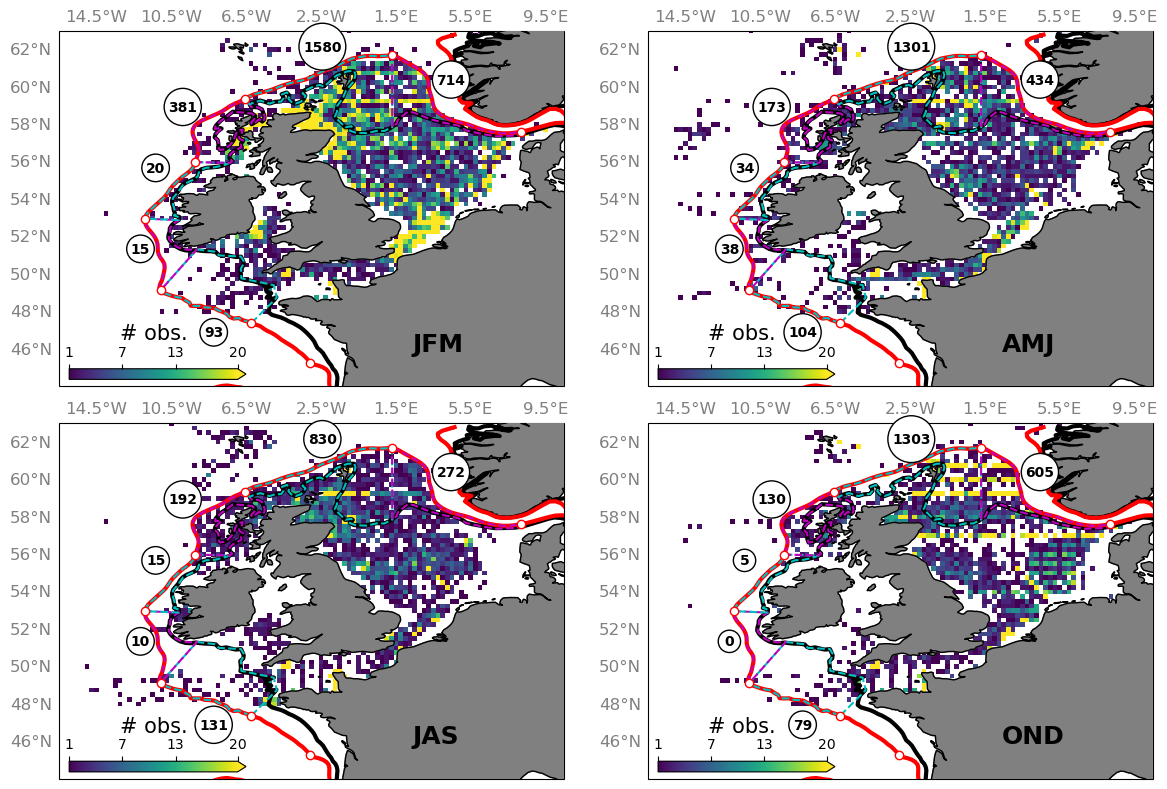
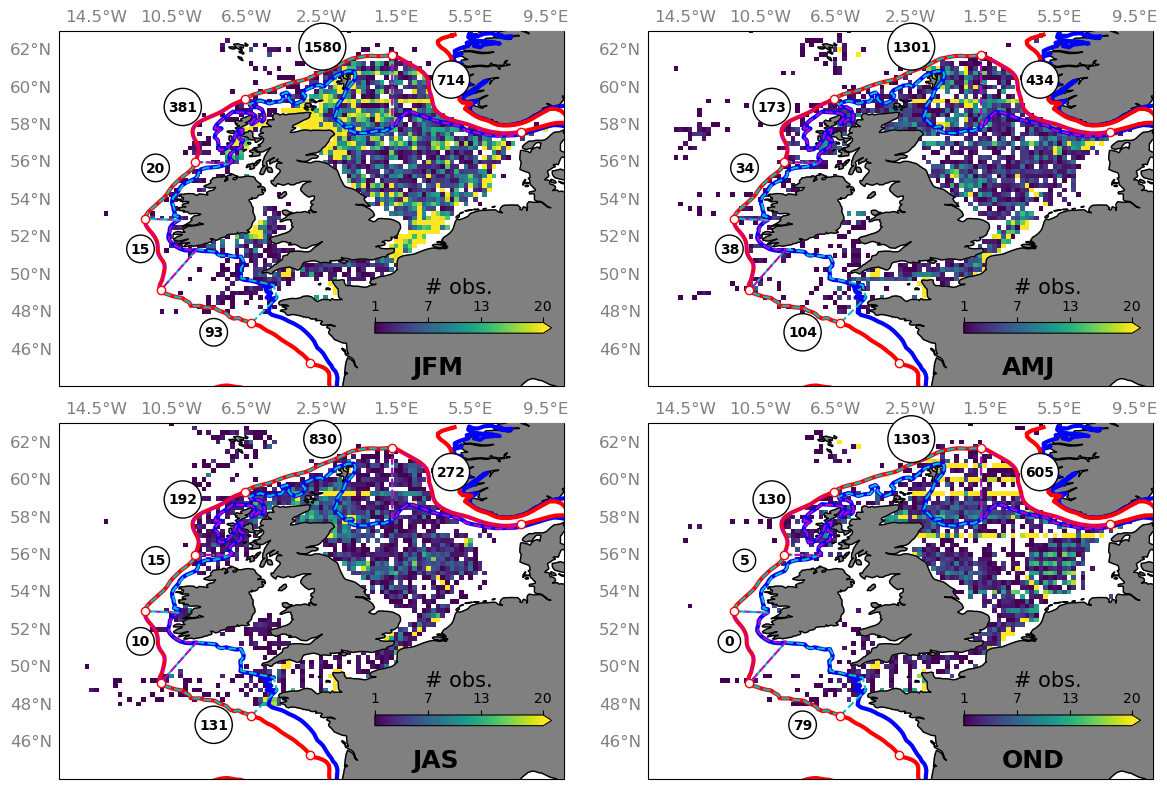
Update Figures S1 and S2

diff --git a/proc/plt_figS1.py b/proc/plt_figS1.py
@@ -1,0 +1,153 @@
+import numpy as np
+import matplotlib.pyplot as plt
+from xarray import open_dataset
+from pandas import DataFrame, read_json
+from pathlib import Path
+from glob import glob
+import cartopy.crs as ccrs
+from cmocean.cm import matter
+from cartopy.feature import LAND
+import matplotlib.ticker as mticker
+from cartopy.mpl.gridliner import LONGITUDE_FORMATTER, LATITUDE_FORMATTER
+
+
+proj = ccrs.PlateCarree()
+
+def bmap(fig, ax, bb, proj=proj, TOP_LABELS=False, xticks=None, yticks=None, dlon=2, dlat=2, land=None, coastlines=True):
+    ax.set_extent(bb, proj)
+
+    if land is not None:
+        ax.add_feature(land, zorder=8, color="gray")
+
+    if coastlines:
+        ax.coastlines(zorder=9)
+
+    if not xticks:
+        xticks = np.arange(bb[0], bb[1], dlon)
+    if not yticks:
+        yticks = np.arange(bb[2], bb[3], dlat)
+
+    gl = ax.gridlines(crs=proj, linewidth=0, color="gray", alpha=0.5, linestyle="--")
+    gl.top_labels = TOP_LABELS
+    gl.left_labels = True
+    gl.bottom_labels = False
+    gl.right_labels = False
+    gl.xlines = True
+    gl.ylines = True
+    gl.xlocator = mticker.FixedLocator(xticks)
+    gl.ylocator = mticker.FixedLocator(yticks)
+    gl.xformatter = LONGITUDE_FORMATTER
+    gl.yformatter = LATITUDE_FORMATTER
+    gl.xlabel_style = {"size": 12, "color": "gray"}
+    gl.ylabel_style = {"size": 12, "color": "gray"}  # , "rotation":45}
+
+    return ax
+
+
+def near2(x, y, x0, y0):
+    dr2 = (x - x0) ** 2 + (y - y0) ** 2
+    return int(np.nanargmin(dr2))
+
+
+# ---
+plt.close("all")
+
+xmin, xmax = -16.5, 10.5
+ymin, ymax = 44, 63
+bb = (xmin, xmax, ymin, ymax)
+ssns = ["JFM", "AMJ", "JAS", "OND"]
+head = "../data/woa23/"
+nobsmin = 1
+nobsmax = 20
+
+fJFM = head + "woa23N-winter.nc"
+fAMJ = head + "woa23N-spring.nc"
+fJAS = head + "woa23N-summer.nc"
+fOND = head + "woa23N-autumn.nc"
+
+dsJFM = open_dataset(fJFM, decode_times=False)
+fupper200m = dsJFM["depth"]<=200
+
+dsJFM = dsJFM.where(fupper200m)
+dsAMJ = open_dataset(fAMJ, decode_times=False).where(fupper200m)
+dsJAS = open_dataset(fJAS, decode_times=False).where(fupper200m)
+dsOND = open_dataset(fOND, decode_times=False).where(fupper200m)
+
+ddJFM = dsJFM["n_dd"].max("depth")
+ddAMJ = dsAMJ["n_dd"].max("depth")
+ddJAS = dsJAS["n_dd"].max("depth")
+ddOND = dsOND["n_dd"].max("depth")
+
+x0, y0 = ddJFM["lon"].values, ddJFM["lat"].values
+x, y = np.meshgrid(x0, y0)
+dxy = y0[1] - y0[0]
+x0 = np.append(x0, x0[-1] + dxy)
+y0 = np.append(y0, y0[-1] + dxy)
+
+ddJFM = ddJFM.values
+ddAMJ = ddAMJ.values
+ddJAS = ddJAS.values
+ddOND = ddOND.values
+
+# Load smoothed isobaths.
+d = np.load("isobath_100m.npz")
+xi100, yi100 = d["xi_ext"], d["yi_ext"]
+
+d = np.load("isobath_200m.npz")
+xi, yi = d["xi_ext"], d["yi_ext"]
+
+# Load Wei et al. (2024) sections.
+xseg0, yseg0 = np.loadtxt("segment_latitudes_wei_etal2024.txt", unpack=True)
+fseg = [near2(xi, yi, xseg0[i], yseg0[i]) for i in range(len(yseg0))]
+xseg, yseg = xi[fseg], yi[fseg]
+
+figsize = (12, 8)
+cmap = plt.cm.viridis
+cmap.set_extremes(bad="w", under="w")
+
+fig = plt.figure(figsize=figsize)
+ax11 = fig.add_subplot(221, projection=proj)
+ax12 = fig.add_subplot(222, projection=proj, sharex=ax11, sharey=ax11)
+ax13 = fig.add_subplot(223, projection=proj, sharex=ax11, sharey=ax11)
+ax14 = fig.add_subplot(224, projection=proj, sharex=ax11, sharey=ax11)
+ax11 = bmap(fig, ax11, bb, proj=proj, land=LAND, TOP_LABELS=True)
+ax12 = bmap(fig, ax12, bb, proj=proj, land=LAND, TOP_LABELS=True)
+ax13 = bmap(fig, ax13, bb, proj=proj, land=LAND, TOP_LABELS=True)
+ax14 = bmap(fig, ax14, bb, proj=proj, land=LAND, TOP_LABELS=True)
+axs = [ax11, ax12, ax13, ax14]
+
+cmap = plt.cm.viridis
+cmap.set_extremes(bad="w", under="w")
+cbax = [0.625, 0.15, 0.35, 0.03]
+cbname = r"# obs."
+
+xtxt, ytxt = 0.7, 0.035
+fig.subplots_adjust(hspace=0, wspace=0)
+
+ssn = "JFM"
+cs11 = ax11.pcolormesh(x, y, ddJFM, vmin=nobsmin, vmax=nobsmax, cmap=cmap)
+ax11.text(xtxt, ytxt, ssn, fontsize=18, fontweight="black", zorder=9, transform=ax11.transAxes)
+
+ssn = "AMJ"
+cs12 = ax12.pcolormesh(x, y, ddAMJ, vmin=nobsmin, vmax=nobsmax, cmap=cmap)
+ax12.text(xtxt, ytxt, ssn, fontsize=18, fontweight="black", zorder=9, transform=ax12.transAxes)
+
+ssn = "JAS"
+cs13 = ax13.pcolormesh(x, y, ddJAS, vmin=nobsmin, vmax=nobsmax, cmap=cmap)
+ax13.text(xtxt, ytxt, ssn, fontsize=18, fontweight="black", zorder=9, transform=ax13.transAxes)
+
+ssn = "OND"
+cs14 = ax14.pcolormesh(x, y, ddOND, vmin=nobsmin, vmax=nobsmax, cmap=cmap)
+ax14.text(xtxt, ytxt, ssn, fontsize=18, fontweight="black", zorder=9, transform=ax14.transAxes)
+
+_ = [axi.plot(xi, yi, color="r", linewidth=3, zorder=20) for axi in axs]
+_ = [axi.plot(xseg, yseg, linestyle="none", marker="o", ms=6, mfc="w", mec="r", zorder=21) for axi in axs]
+
+for csi, axi in zip([cs11, cs12, cs13, cs14], [ax11, ax12, ax13, ax14]):
+    cbi = fig.colorbar(csi, cax=axi.inset_axes(cbax, zorder=10), orientation="horizontal", extend="max")
+    cbi.ax.xaxis.set_ticks_position("top"); cbi.ax.xaxis.set_label_position("top"); cbi.ax.xaxis.set_ticks(np.int32(np.linspace(nobsmin, nobsmax, 4)))
+    cbi.set_label(cbname, fontsize=15)
+
+fig.tight_layout()
+
+fig.savefig("../plot_figs/figS1.png", bbox_inches="tight")

diff --git a/proc/03-calc_Nshelf-NSBC_figS2.py b/proc/03-calc_Nshelf-NSBC_figS2.py
@@ -174,9 +174,7 @@ msk200mshelf = np.expand_dims(msk200mshelf, 1)
 Nmean0, Nnobs0 = (ds["nitrate_mean"].where(msk200mshelf), ds["nitrate_noobs"].where(msk200mshelf))
 
 Nstd0 = ds["nitrate_stddev"].where(msk200mshelf)
-Smean0 = dsS["salinity_mean"].where(
-    msk200mshelf
-)  # For depth-mean salinity. Anywhere too fresh is masked out for the nitrate values.
+Smean0 = dsS["salinity_mean"].where(msk200mshelf)  # For depth-mean salinity. Anywhere too fresh is masked out for the nitrate values.
 fmsk = "../data/nsbc/NSBC_Level2_land_sea_mask__UHAM_ICDC__v1.1__0.25x0.25deg.nc"
 landmask0 = open_dataset(fmsk)["landmask"].sel(lon=slice(xmin, xmax), lat=slice(ymin, ymax), depth=slice(0, 200))
 
@@ -270,12 +268,12 @@ ccfmt = "%d"
 cmap = matter
 cmap2 = plt.cm.nipy_spectral
 cmap2.set_extremes(bad="w", under="w")
-cbax = [0.02, 0.02, 0.35, 0.03]
+cbax = [0.625, 0.15, 0.35, 0.03]
 cbname1 = r"N [mmol/m$^3$]"
 cbname2 = r"# obs."
 
 # Bin-averaged fields, number of observations per bin.
-xtxt, ytxt = 0.7, 0.1
+xtxt, ytxt = 0.7, 0.035
 
 ssn = "JFM"
 cs11 = ax11.pcolormesh(x, y, Nmean[ssn], vmin=vmi, vmax=vma, cmap=cmap)
@@ -321,8 +319,8 @@ xseg0, yseg0 = np.loadtxt("segment_latitudes_wei_etal2024.txt", unpack=True)
 fseg = [near2(xi, yi, xseg0[i], yseg0[i]) for i in range(len(yseg0))]
 xseg, yseg = xi[fseg], yi[fseg]
 
-_ = [axi.plot(xi100, yi100, color="k", linewidth=1, zorder=20) for axi in axs]
-_ = [axi.plot(xi125, yi125, color="k", linewidth=1, zorder=20) for axi in axs]
+_ = [axi.plot(xi100, yi100, color="b", linewidth=1, zorder=20) for axi in axs]
+_ = [axi.plot(xi125, yi125, color="b", linewidth=1, zorder=20) for axi in axs]
 _ = [axi.plot(xi, yi, color="r", linewidth=1.5, zorder=20) for axi in axs]
 _ = [axi.plot(xseg, yseg, linestyle="none", marker="o", ms=6, mfc="w", mec="r", zorder=21) for axi in axs]
 
@@ -723,7 +721,7 @@ ssn = "OND"
 cs14 = ax14.pcolormesh(x, y, Nnobs[ssn], vmin=nobsmin, vmax=nobsmax, cmap=cmap2)
 ax14.text(xtxt, ytxt, ssn, fontsize=18, fontweight="black", zorder=9, transform=ax14.transAxes)
 
-_ = [axi.plot(xi100, yi100, color="k", linewidth=3, zorder=20) for axi in axs]
+_ = [axi.plot(xi100, yi100, color="b", linewidth=3, zorder=20) for axi in axs]
 _ = [axi.plot(xi, yi, color="r", linewidth=3, zorder=20) for axi in axs]
 _ = [axi.plot(xseg, yseg, linestyle="none", marker="o", ms=6, mfc="w", mec="r", zorder=21) for axi in axs]
 
